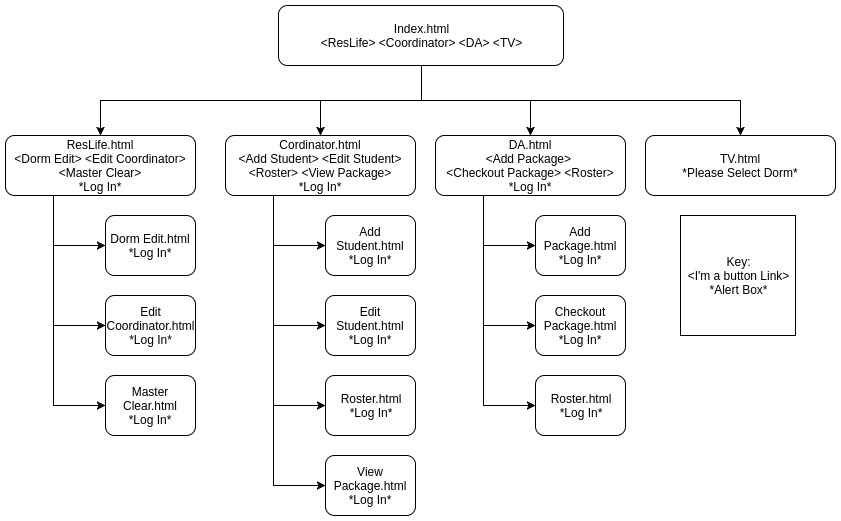
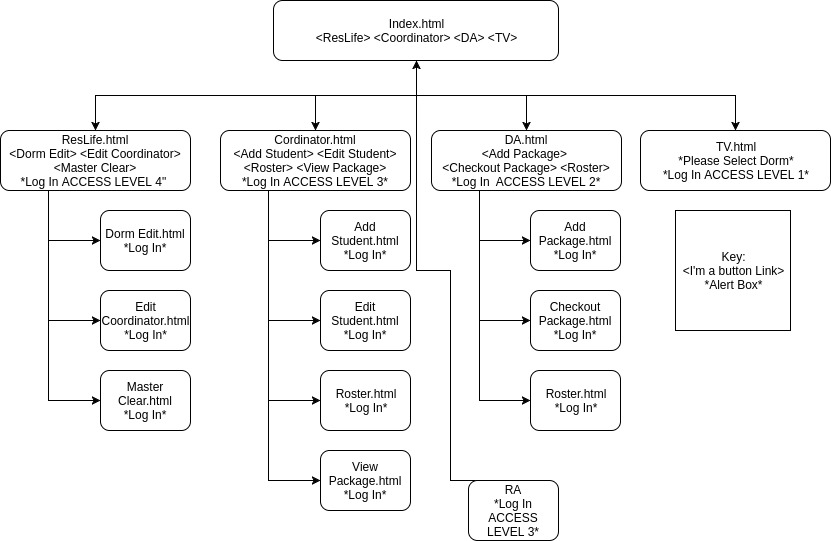
Added RA Page will add log in for them, along with buttons on all forms

Changed region(s): [[0.0, 0.1536, 1.0, 1.0], [0.3309, 0.0, 0.6919, 0.1228], [0.5415, 0.8599, 0.6619, 1.0]]

diff --git a/ResidentAssistant.html b/ResidentAssistant.html
@@ -1,0 +1,61 @@
+<!DOCTYPE HTML>
+<html>
+<head>
+    <title class = "headtitle">Desk Attendant Portal</title>
+    <link rel="stylesheet" href="PackageSysStyle.css">
+    <script src="https://code.jquery.com/jquery-3.1.1.min.js"></script>
+</head>
+<body class = "indexBody">
+<header>
+  <img class = "CMULogo" alt="Colorado Mesa Unversity" src="cmu_white.png":></img>
+</header>
+
+Welcome to the Hall Coordinator Form. Please type a students first and last name to add them to the residence hall roster.<br>
+<em><small>Note: This will add a student to the residence hall database.</small></em>
+
+<div class="FormAdd">
+<br>
+<table>
+   <tr>
+       <th>Swipe Mavcard:</th>
+       <td><input type="password" onkeypress="if (event.keyCode == 13) {readCard(this.value); this.value='';}"/></td>
+   </tr>
+</table>
+<form>
+   <table>
+       <tr>
+           <th>600 #:</th>
+           <td><input type="text" id="600_number" name="600_number" disabled/></td>
+       </tr>
+       <tr>
+           <th>Name:</th>
+           <td><input type="text" id="first_name" name="first_name" disabled/></td>
+           <td><input type="text" id="last_name" name="last_name" disabled/></td>
+       </tr>
+       <tr>
+           <th></th>
+       </tr>
+       <tr>
+           <th>Email:</th>
+           <td><input type="text" id="email" name="email" /></td>
+       </tr>
+       <tr>
+<th>Residence Hall:</th>
+           <td>
+               <select id="dorms" name="dorms">
+                   <option v-for="dorm in dorms" :value="dorm.Unique_ID">{{dorm.Dorm_Name}}</option>
+               </select>
+           </td>
+       </tr>
+       <tr>
+           <th><input type="submit" value="Submit" /></th>
+           <td><input type="button" value="Clear" onclick="clearFields();"/></td>
+       </tr>
+   </table>
+</form>
+</div>
+<footer>
+&copy Colorado Mesa University
+</footer>
+</body>
+</html>

diff --git a/CoordinatorAdd.html b/CoordinatorAdd.html
@@ -24,12 +24,7 @@
                     }
                 }
             }
-<<<<<<< HEAD
-
-=======
-
             var dfetch = true;
->>>>>>> 5b56da4f756731ff963a58ab1ed163240e45a2f5
             function login(cinfo) {
                 info = cardrgx.exec(cinfo);
                 if (info != null) {
@@ -59,13 +54,8 @@
                     }
                 }
             }
-<<<<<<< HEAD
-
-            var curcard = "%700^TALBOT, RICHARD J ?;6009951001783705=600000000?+E?";
-=======
 
             var curcard = "";
->>>>>>> 5b56da4f756731ff963a58ab1ed163240e45a2f5
             function silentLogin(event) {
                 curcard += String.fromCharCode(event.charCode);
                 if (event.keyCode == 13) {

diff --git a/Coordinator.html b/Coordinator.html
@@ -95,8 +95,10 @@
       </td>
                   </tr>
                   <tr>
-                      <th><input type= "submit" value = "Submit" /></th>
-                      <td><input type = "reset" value = "Reset" /> </td>
+                    <td><input type="button" value="Add" onclick="Add();"/></td>
+                    <td><input type="button" value="Edit" onclick="Edit();"/></td>
+                    <td><input type="button" value="Remove" onclick="Remove();"/></td>
+                    <td><input type="button" value="Clear" onclick="clearFields();"/></td>
                   </tr>
               </table>
           </form>

diff --git a/index.html b/index.html
@@ -13,6 +13,7 @@
                 <ul>
                     <li> <a href="ResLife.html">ResLife</a></li>
                     <li> <a href="Coordinator.html">Coordinator Portal</a></li>
+                    <li> <a href="ResidentAssistant.html">RA Portal</a></li>
                     <li> <a href="DeskAttendant.html" >DA Portal</a></li>
                     <li> <a href="TV.html">TV Display</a></li>
                 </ul>

diff --git a/ResLife.html b/ResLife.html
@@ -26,7 +26,7 @@
         <table>
             <tr>
                     <th>Hall Name:</th>
-                    <td><input type="text" id="first_name" name="first_name" disabled/></td>
+                    <td><input type="text" id="first_name" name="first_name"/></td>
               </tr>
                 <tr>
                     <th></th>
